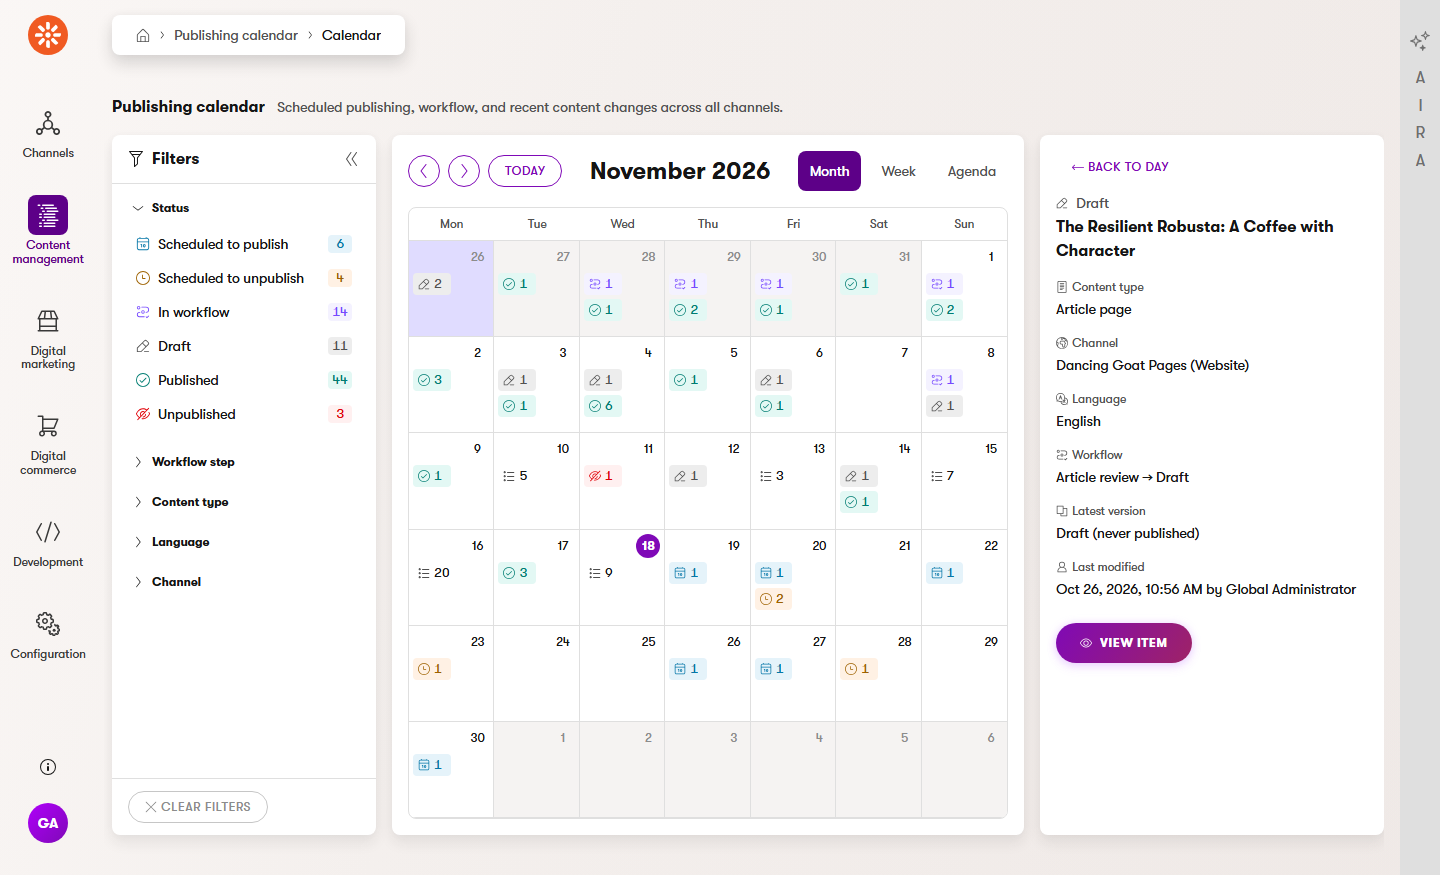
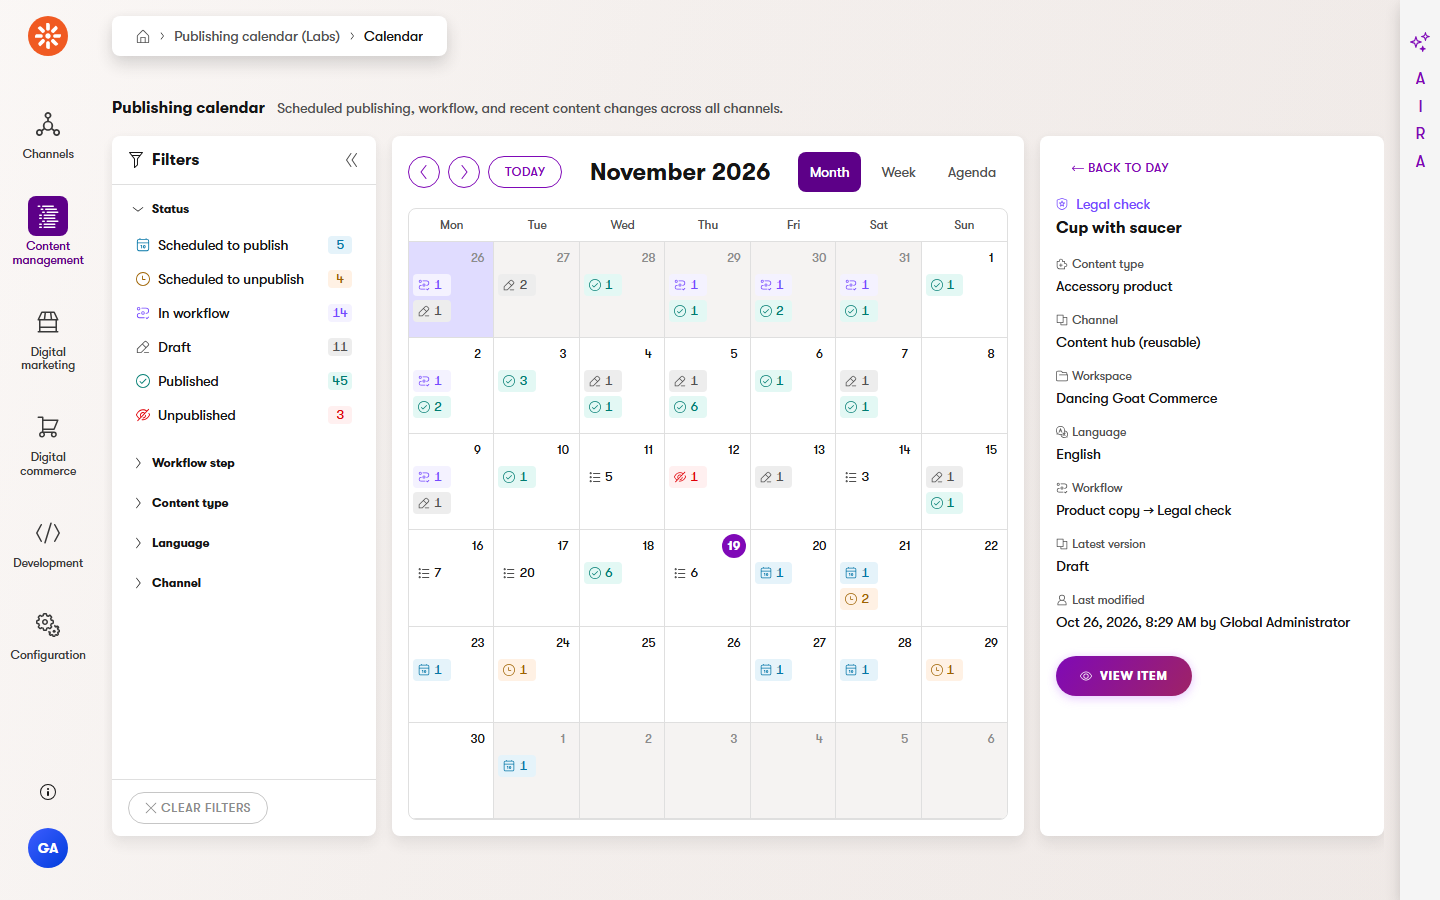
feat: suffix admin app name with (Labs), add agenda screenshot
- UIApplication name: "Publishing calendar (Labs)"; README and Usage Guide match
- Screenshots: add agenda view capture, recapture others

diff --git a/tests/e2e/screenshots/publishing-calendar.screenshots.ts b/tests/e2e/screenshots/publishing-calendar.screenshots.ts
@@ -30,6 +30,16 @@ test("week view of the busy day", async ({ page }) => {
   await capture(page, "publishing-calendar-week");
 });
 
+test("agenda view", async ({ page }) => {
+  const calendar = new PublishingCalendarPage(page);
+
+  await calendar.openWithItems();
+  await calendar.switchView("agenda");
+  await expect(calendar.agendaItems().first()).toBeVisible();
+
+  await capture(page, "publishing-calendar-agenda");
+});
+
 test("item details", async ({ page }) => {
   const calendar = new PublishingCalendarPage(page);
 

diff --git a/src/Kentico.Xperience.Labs.PublishingCalendar.Admin/UIPages/PublishingCalendar/PublishingCalendarApplicationPage.cs b/src/Kentico.Xperience.Labs.PublishingCalendar.Admin/UIPages/PublishingCalendar/PublishingCalendarApplicationPage.cs
@@ -8,7 +8,7 @@ using Kentico.Xperience.Labs.PublishingCalendar.Admin;
     identifier: PublishingCalendarApplicationPage.IDENTIFIER,
     type: typeof(PublishingCalendarApplicationPage),
     slug: "publishing-calendar",
-    name: "Publishing calendar",
+    name: "Publishing calendar (Labs)",
     category: BaseApplicationCategories.CONTENT_MANAGEMENT,
     icon: Icons.Calendar,
     templateName: TemplateNames.SECTION_LAYOUT)]

diff --git a/README.md b/README.md
@@ -6,13 +6,15 @@
 
 Adds a publishing calendar application to the Xperience administration that shows scheduled publishing, workflow, and recent content changes across all channels.
 
-The **Publishing calendar** application (Content management category) shows content item language variants from all channels and the Content hub on a month, week, or agenda calendar: scheduled publish and unpublish dates, plus published, in-workflow, draft, and unpublished items by last modified date. Filter by content type, channel, and workflow step, and open items in their editors.
+The **Publishing calendar (Labs)** application (Content management category) shows content item language variants from all channels and the Content hub on a month, week, or agenda calendar: scheduled publish and unpublish dates, plus published, in-workflow, draft, and unpublished items by last modified date. Filter by content type, channel, and workflow step, and open items in their editors.
 
 <!-- Screenshots: images/screenshots, generated by `npm run screenshots` in tests/e2e (see tests/e2e/README.md). -->
 
 ![Publishing calendar month view](./images/screenshots/publishing-calendar-month.png)
 
 ![Publishing calendar week view](./images/screenshots/publishing-calendar-week.png)
+
+![Publishing calendar agenda view](./images/screenshots/publishing-calendar-agenda.png)
 
 ![Publishing calendar item details](./images/screenshots/publishing-calendar-item-details.png)
 
@@ -47,7 +49,7 @@ dotnet add package Kentico.Xperience.Labs.PublishingCalendar.Admin
 
 1. Install the package (see above) in the project that hosts the administration. No registration code is needed: Xperience discovers the module at startup.
 2. Rebuild and restart the application.
-3. Open **Publishing calendar** in the administration. Roles other than Administrator need the **View** permission for the application.
+3. Open **Publishing calendar (Labs)** in the administration. Roles other than Administrator need the **View** permission for the application.
 
 ## Full Instructions
 

diff --git a/docs/Usage-Guide.md b/docs/Usage-Guide.md
@@ -12,11 +12,11 @@ No code changes are needed. Xperience discovers the package's admin module at st
 
 ## Where it appears
 
-The **Publishing calendar** application is in the **Content management** category of the administration (`/admin/publishing-calendar`).
+The **Publishing calendar (Labs)** application is in the **Content management** category of the administration (`/admin/publishing-calendar`).
 
 ## Permissions
 
-The application uses the standard **View** permission. Administrators see it by default. For other roles, open **Role management**, select the role, and grant **View** for **Publishing calendar**.
+The application uses the standard **View** permission. Administrators see it by default. For other roles, open **Role management**, select the role, and grant **View** for **Publishing calendar (Labs)**.
 
 The calendar doesn't apply workspace, channel, or page permissions. A role with **View** on the application sees titles, dates, workflow steps, and last editors of items in all workspaces and channels, including ones the role can't open. Editors opened from the calendar still check the role's permissions.
 
